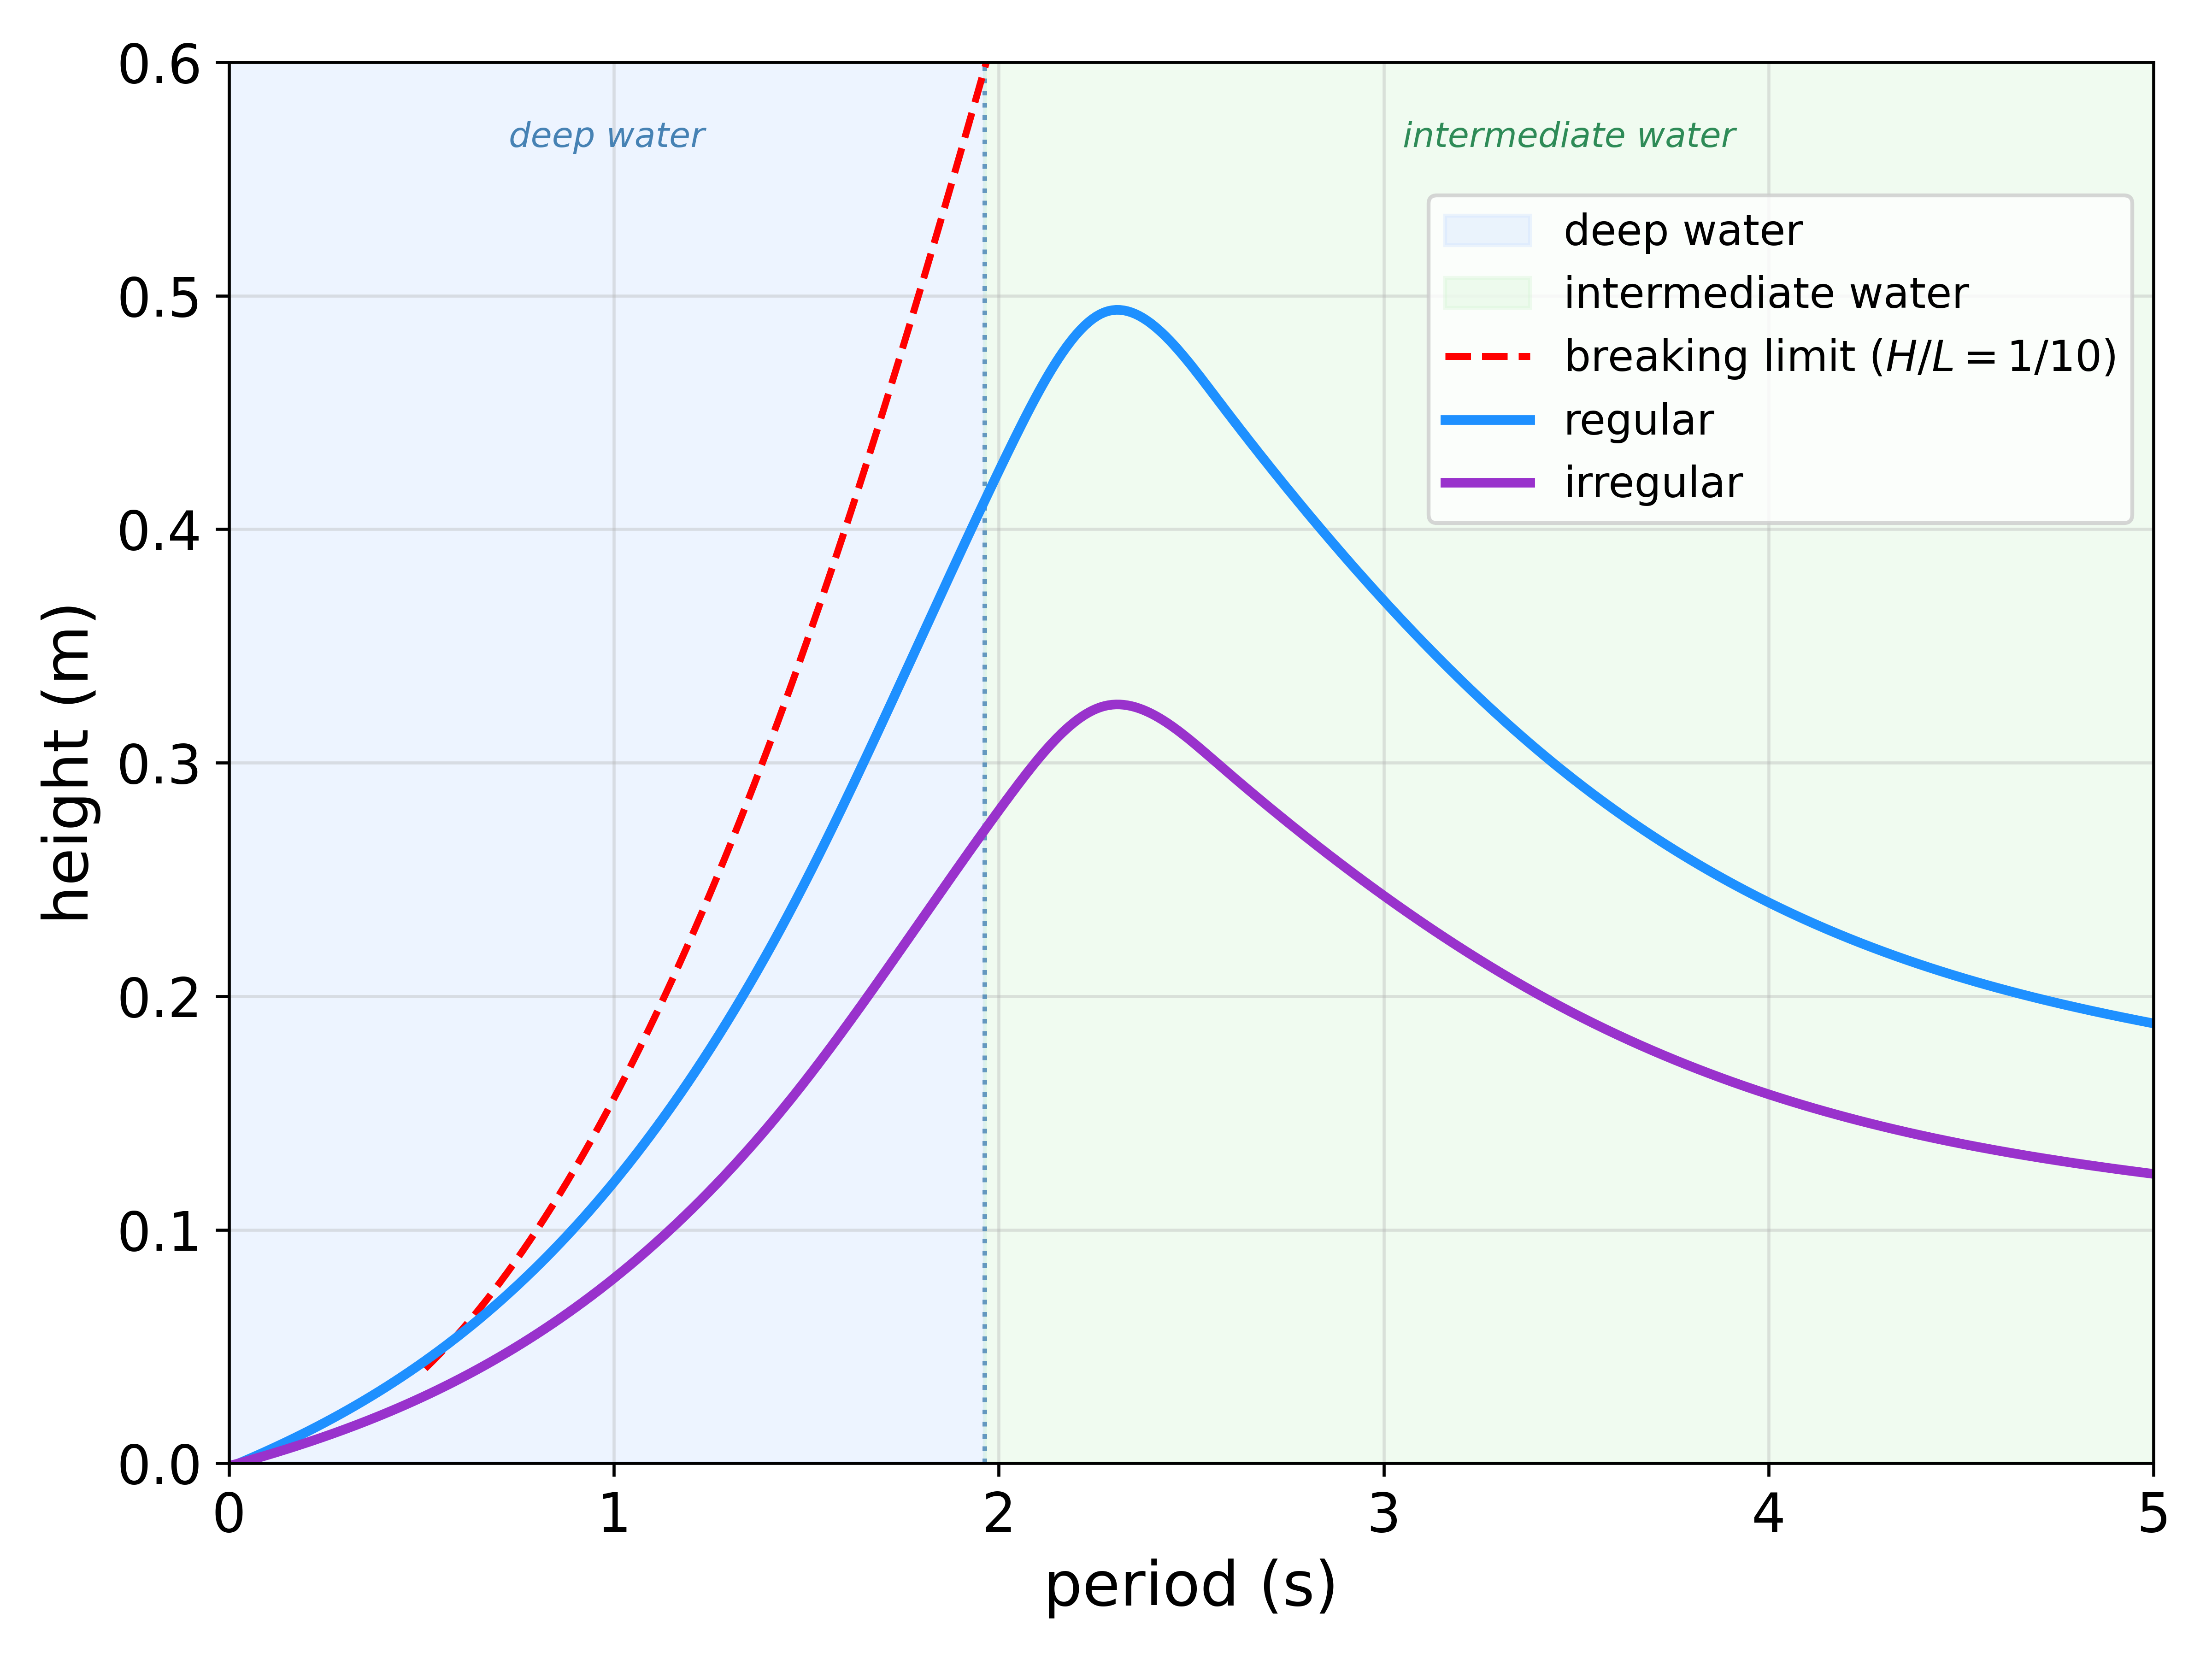
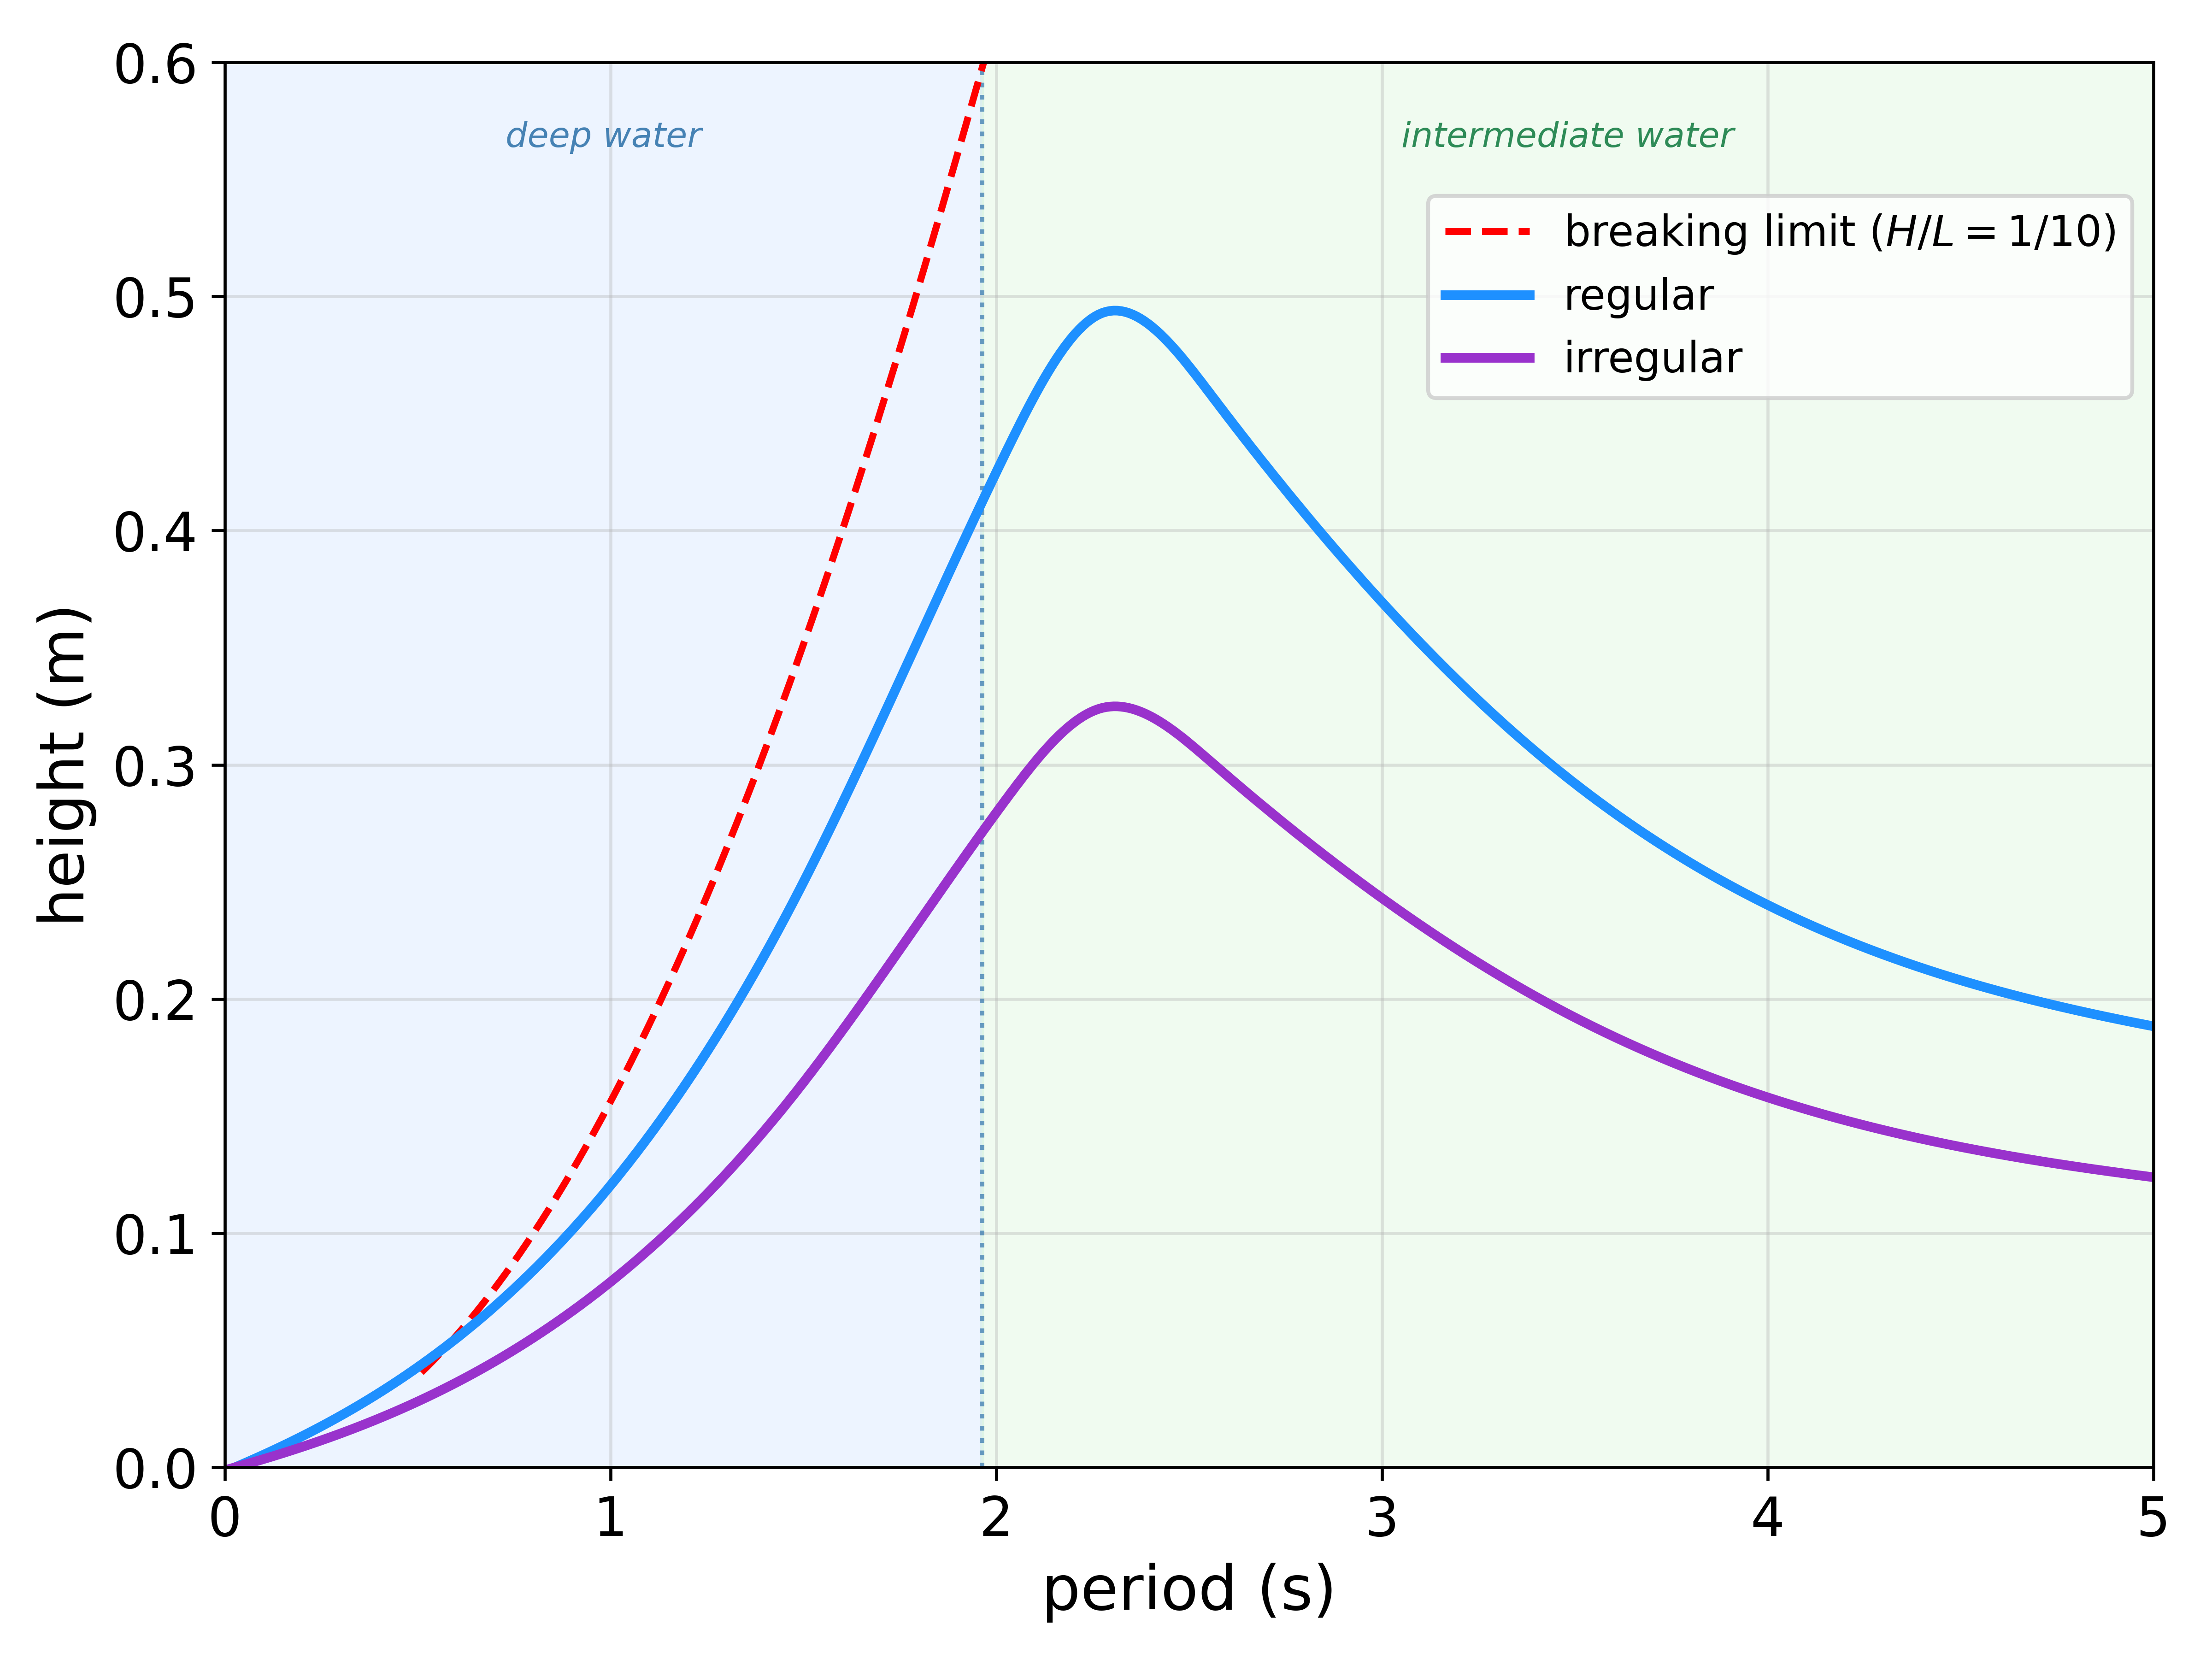
Updates

diff --git a/index.html b/index.html
@@ -8,7 +8,7 @@
       * { box-sizing: border-box; margin: 0; padding: 0; }
       body { background: #0b0f1a; }
     </style>
-    <script type="module" crossorigin src="/towing-tank-viewer/assets/index-B4SUpt1H.js"></script>
+    <script type="module" crossorigin src="/towing-tank-viewer/assets/index-Dr47wMBd.js"></script>
   </head>
   <body>
     <div id="root"></div>